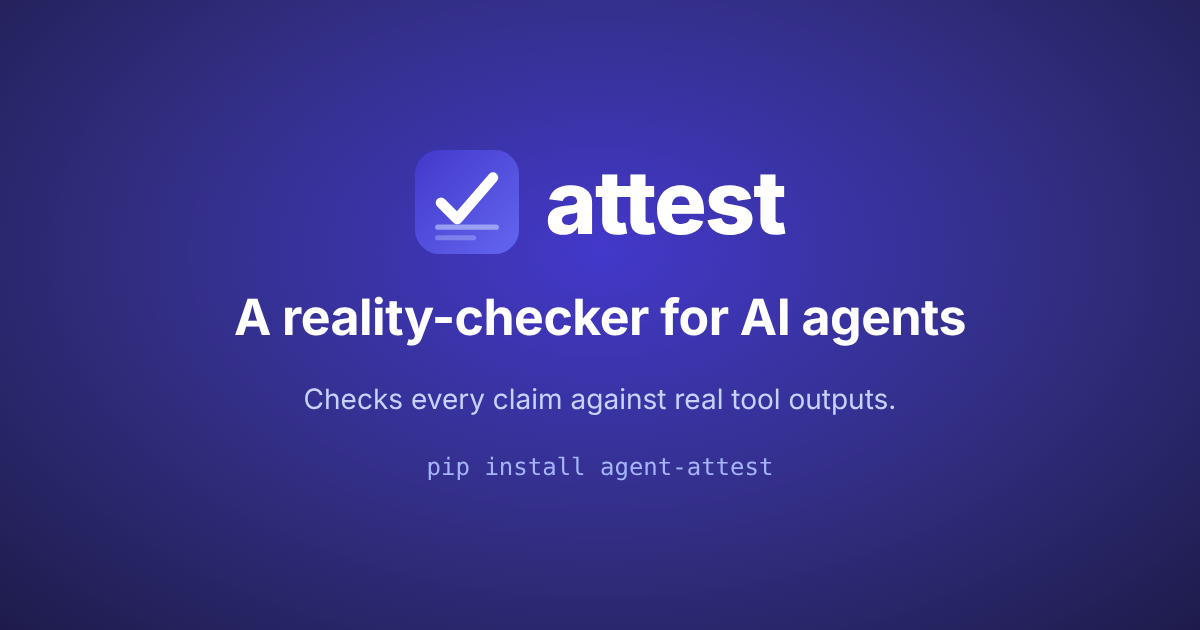
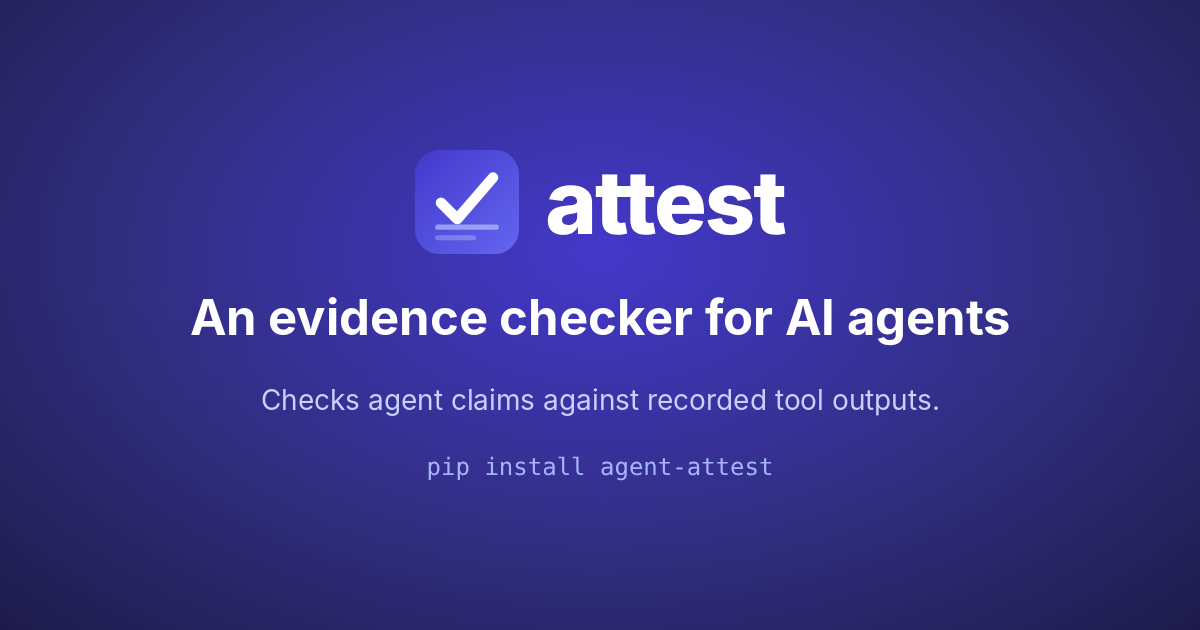
Say what attest checks in the tagline, social card and package description
"A reality-checker" implied attest checks whether claims are true. It
checks whether they are supported by the recorded tool outputs.

Changed region(s): [[0.1542, 0.4524, 0.8633, 0.5429], [0.2158, 0.6032, 0.7708, 0.6635]]

diff --git a/overrides/main.html b/overrides/main.html
@@ -29,7 +29,7 @@
   <meta property="og:image" content="{{ image }}">
   <meta property="og:image:width" content="1200">
   <meta property="og:image:height" content="630">
-  <meta property="og:image:alt" content="attest: a reality-checker for AI agents">
+  <meta property="og:image:alt" content="attest: an evidence checker for AI agents">
   <meta name="twitter:card" content="summary_large_image">
   <meta name="twitter:title" content="{{ title }}">
   <meta name="twitter:description" content="{{ description }}">

diff --git a/docs/index.md b/docs/index.md
@@ -5,7 +5,7 @@ description: "Open-source AI agent evaluation tool for Python: checks agent answ
 
 # attest: open-source AI agent evaluation
 
-**A reality-checker for AI agents.** attest is an open-source Python tool for evaluating AI
+**An evidence checker for AI agents.** attest is an open-source Python tool for evaluating AI
 agents. It grades an agent's answer against what its tools actually returned, and flags claims
 the tool outputs don't support, misused tools and prompt-injection slips that a "does this look
 good?" grader can wave through. It checks whether claims are supported by the recorded evidence,

diff --git a/README.md b/README.md
@@ -8,7 +8,7 @@
 <br>
 <br>
 
-**A reality-checker for AI agents.**<br>
+**An evidence checker for AI agents.**<br>
 Grade an agent's answer against what its tools actually returned.
 
 <br>
